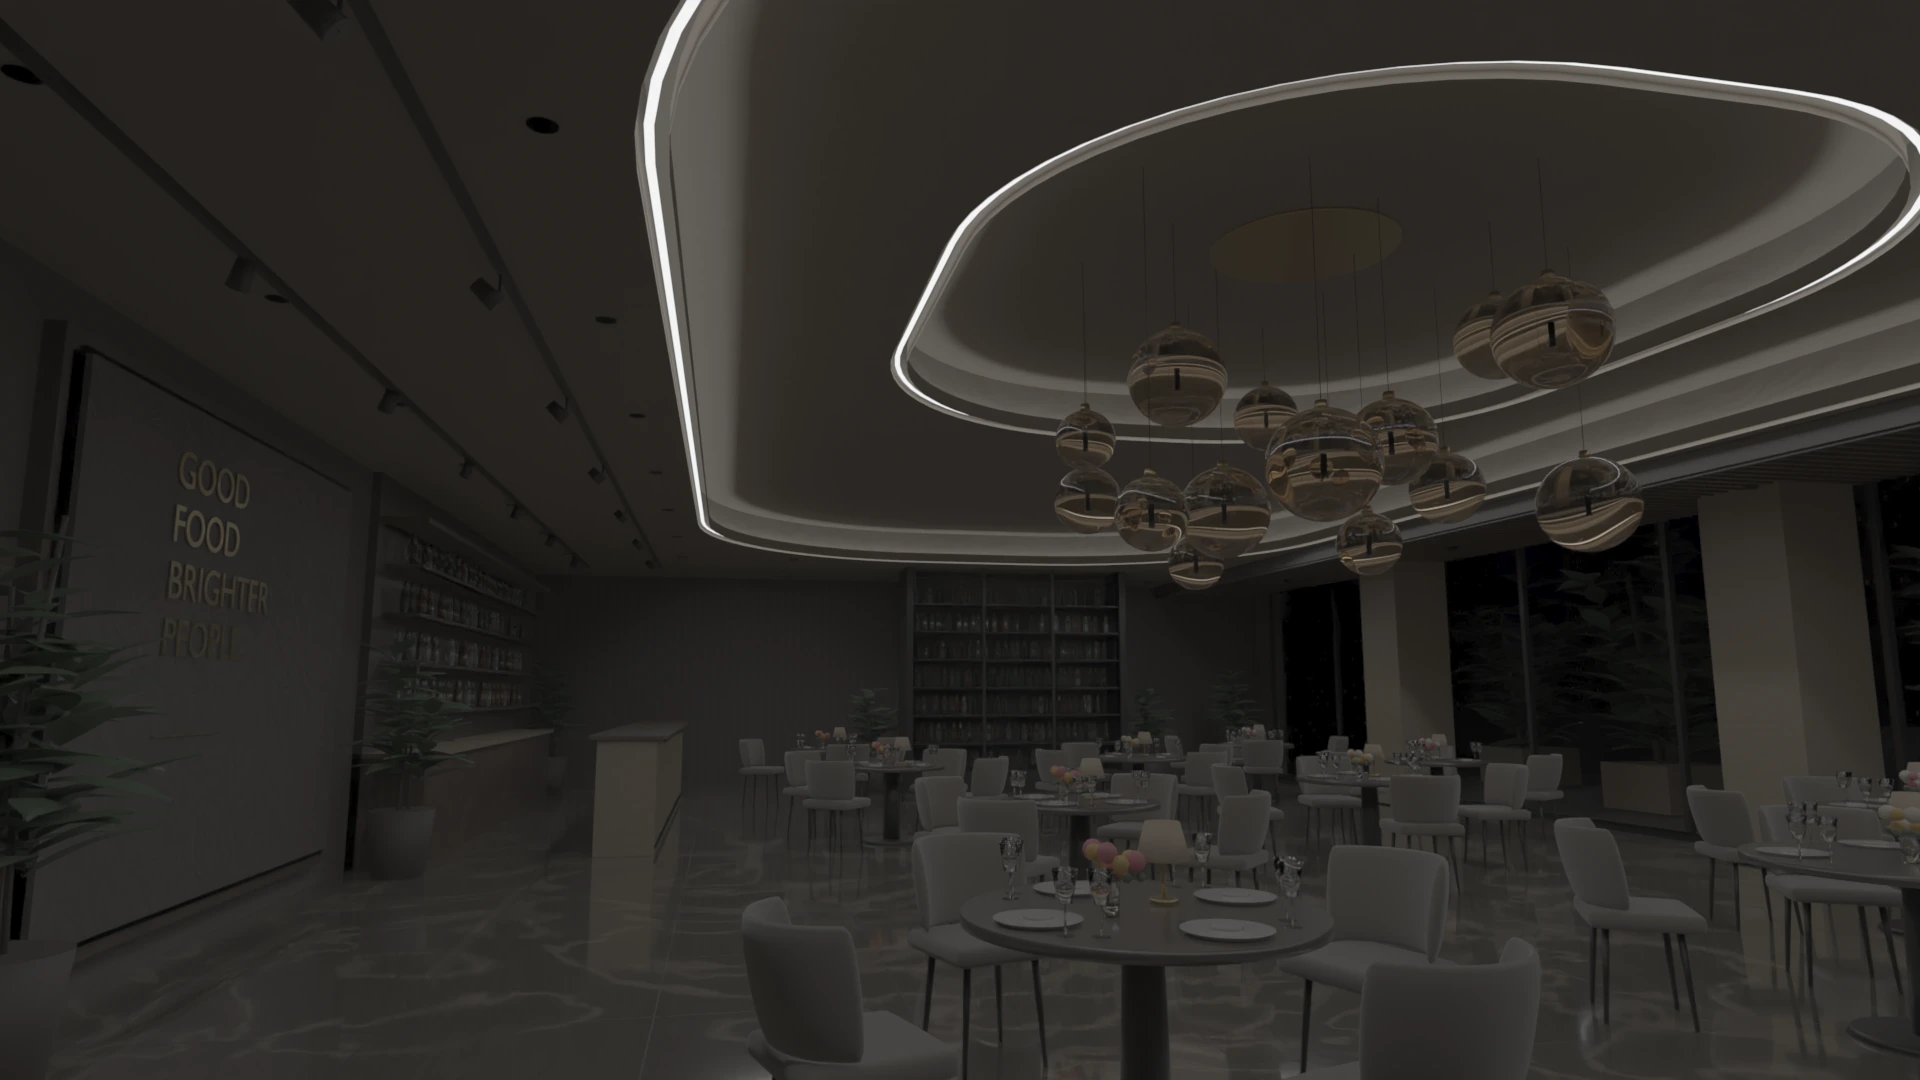
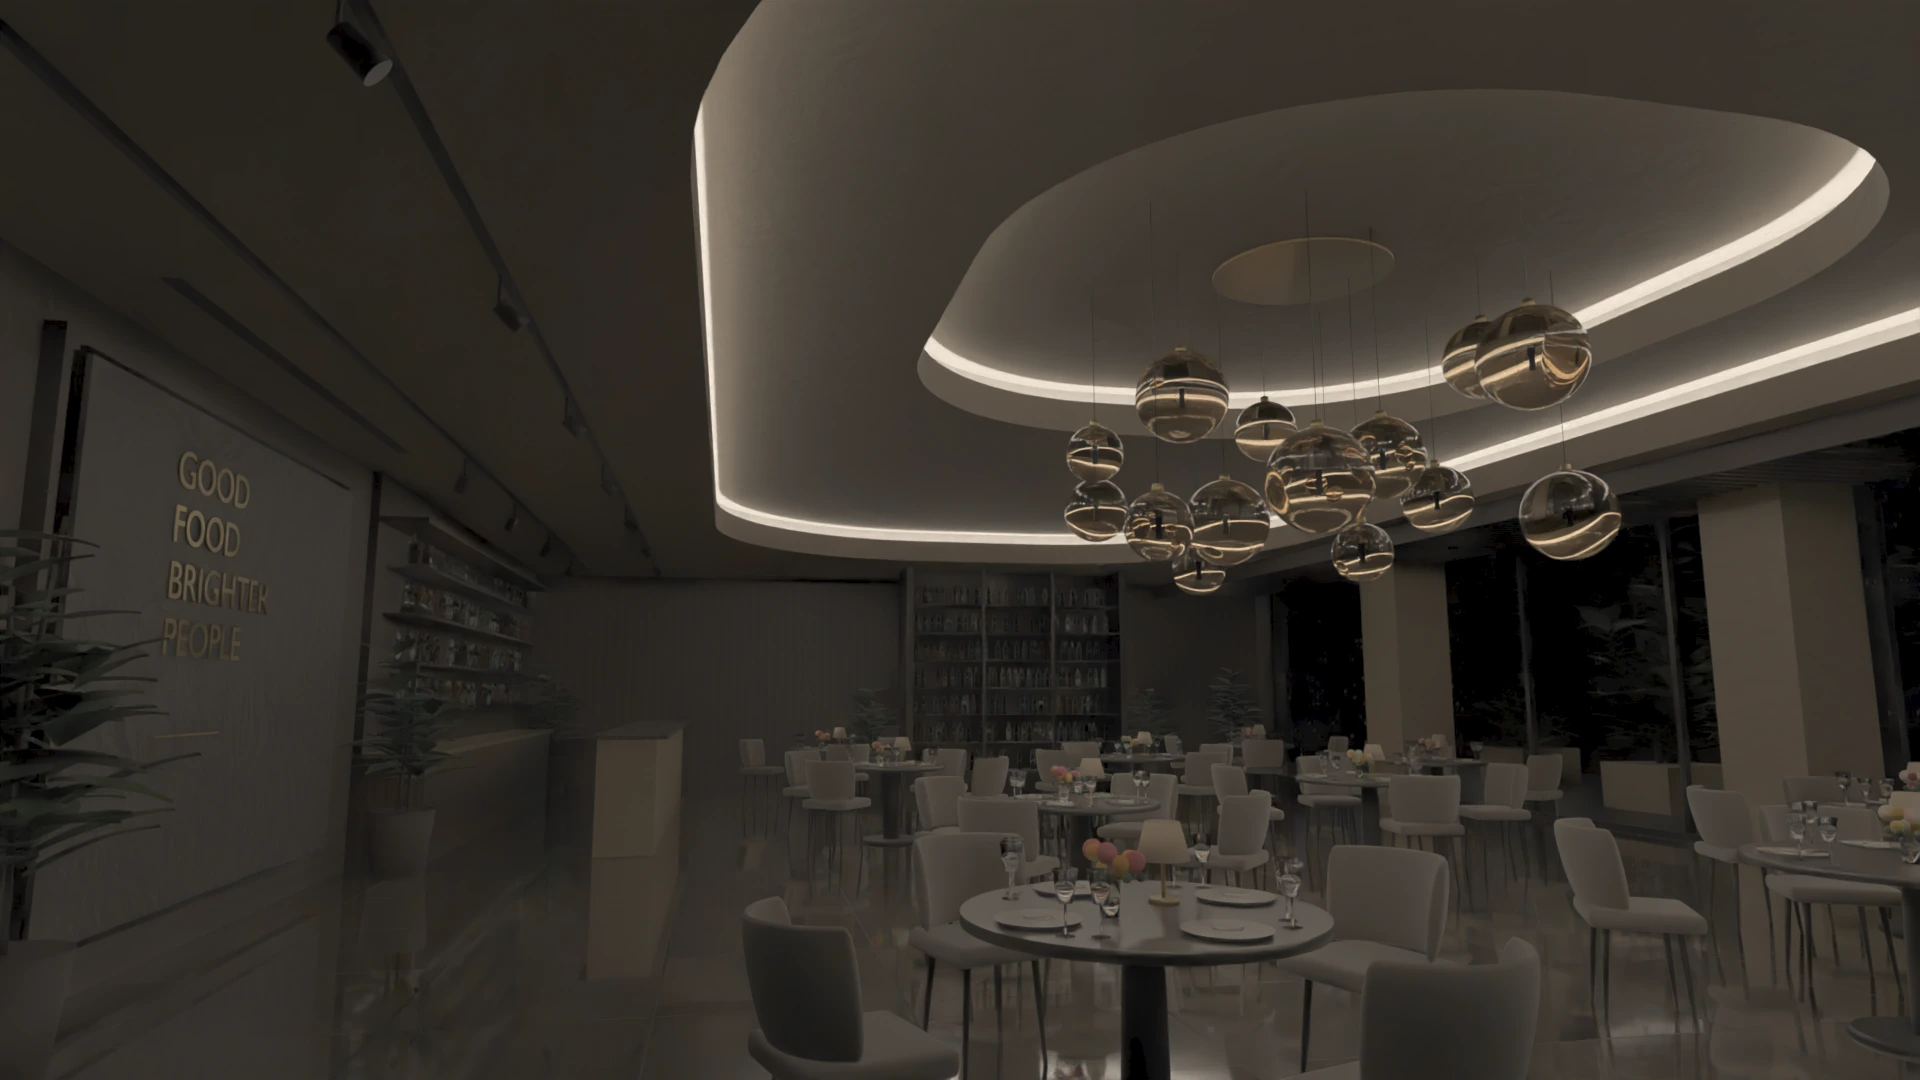
Restaurant v8: the shelf circuit, and Party in amber
The plate set was re-rendered. Nine circuits now instead of eight, and
every circuit carries its own fixtures — a lens, a strip, a globe glows
only inside its own layer, so a circuit at zero shows its fittings
unlit. There was no separate lens-glow overlay to remove; the plates
path never had one.

Gains re-derived against the new plates, anchored so `rs_general` alone
at full reads the brief's 0.25 — measured 0.253. Two layers are off the
lumen line and the profile says why: `rs_pendant`, whose globes fill the
frame, and `rs_arch`, which is discussed below.

Shelf lighting is a new circuit, split out of `rs_feature`. Thirty
strips at 3000 K, dim only, lit in all eight scenes — 50 through Day up
to 100 for Cleaning, as the sheet specifies. It reads at a p99 of 0.75
with half a per cent of pixels clipped: lit glass rather than glare.

Party is amber. The scene asked for `#FF8A1F` and got magenta, because
the scene also carried a hue drift from 320 to 275 that overwrote the
colour a frame after it was set. The drift is gone, and with the wash at
hue 30 the room is warm end to end with no pink, purple or blue — and
2.1% clipped, down from 4.3%. The brief's optional amber-to-gold pulse
is not implemented: those two colours are five degrees of hue apart and
differ mostly in brightness, and `SceneDrift` interpolates hue alone, so
it would animate nothing anybody could see.

Morning raises the downlights to 70 and the tracks to 60 at 4000 K, with
[…]

diff --git a/lib/spaces/commercial/restaurant.ts b/lib/spaces/commercial/restaurant.ts
@@ -182,6 +182,33 @@ export const restaurant: Space = {
       glow: [],
     },
     {
+      id: "rs-shelf",
+      kind: "light",
+      name: "Shelf Lighting",
+      zoneId: "rs-main",
+      productId: "connekt-profile",
+      subsystem: "lighting",
+      /**
+       * Split out of `rs-feature` in the v8 re-render.
+       *
+       * Both bottle displays, the back bar shelf and the full-height wine
+       * wall. It used to ride on the feature circuit, which meant the only
+       * way to light the wall graphic was to light four hundred bottles
+       * with it. They are different jobs on different hours — the wine
+       * wall is the thing a guest photographs, and it should still be lit
+       * when the room has gone down for dinner.
+       *
+       * Dim only, fixed 3000 K: a shelf strip behind glass is specified
+       * once and never tuned, and a bottle display that drifts warm looks
+       * like a fridge that has lost its light.
+       */
+      dimmable: true,
+      fixtures: 30,
+      wattsEach: 4,
+      lumensEach: 260,
+      glow: [],
+    },
+    {
       id: "rs-rgb",
       kind: "light",
       name: "RGB",
@@ -304,6 +331,15 @@ export const restaurant: Space = {
         "Breakfast and the room between services. Cool, bright and even, with the façade doing most of it — the decorative layers are off because a filament globe in daylight is a switched-on bulb and nothing more.",
       fadeMs: 2200,
       targets: {
+        "rs-general": { on: true, level: 70, cct: 4000, sat: 0 },
+        "rs-tunable": { on: true, level: 60, cct: 4000, sat: 0 },
+        "rs-cove": { on: false },
+        "rs-pendant": { on: false },
+        "rs-arch": { on: false },
+        "rs-feature": { on: false },
+        "rs-table": { on: false },
+        "rs-shelf": { on: true, level: 50 },
+        "rs-rgb": { on: false },
         /**
          * Carried by the track rather than the downlights, on purpose.
          *
@@ -316,14 +352,6 @@ export const restaurant: Space = {
          * actually lights breakfast, and the cove stays up because a 10%
          * cove is most of the difference between even and gloomy.
          */
-        "rs-general": { on: true, level: 60, cct: 4500, sat: 0 },
-        "rs-tunable": { on: true, level: 95, cct: 4500, sat: 0 },
-        "rs-cove": { on: true, level: 50, cct: 4000, sat: 0 },
-        "rs-pendant": { on: false },
-        "rs-arch": { on: true, level: 25, cct: 4000, sat: 0 },
-        "rs-feature": { on: true, level: 30, cct: 4000, sat: 0 },
-        "rs-table": { on: false },
-        "rs-rgb": { on: false },
         "rs-ac": { on: true, setpointC: 23, mode: "cool", fan: 2 },
         "rs-music": { on: true, source: "Brunch", volume: 22 },
       },
@@ -345,6 +373,7 @@ export const restaurant: Space = {
         "rs-arch": { on: true, level: 42, cct: 3400, sat: 0 },
         "rs-feature": { on: true, level: 62, cct: 3400, sat: 0 },
         "rs-table": { on: true, level: 35, cct: 2600, sat: 0 },
+        "rs-shelf": { on: true, level: 60 },
         "rs-rgb": { on: false },
         "rs-ac": { on: true, setpointC: 22, mode: "cool", fan: 3 },
         "rs-music": { on: true, source: "Bossa", volume: 28 },
@@ -367,6 +396,7 @@ export const restaurant: Space = {
         "rs-arch": { on: true, level: 66, cct: 2800, sat: 0 },
         "rs-feature": { on: true, level: 88, cct: 2900, sat: 0 },
         "rs-table": { on: true, level: 66, cct: 2200, sat: 0 },
+        "rs-shelf": { on: true, level: 80 },
         "rs-rgb": { on: false },
         "rs-ac": { on: true, setpointC: 22, mode: "cool", fan: 2 },
         "rs-music": { on: true, source: "Bossa", volume: 30 },
@@ -389,6 +419,7 @@ export const restaurant: Space = {
         "rs-arch": { on: true, level: 55, cct: 2900, sat: 0 },
         "rs-feature": { on: true, level: 70, cct: 3000, sat: 0 },
         "rs-table": { on: true, level: 45, cct: 2300, sat: 0 },
+        "rs-shelf": { on: true, level: 80 },
         "rs-rgb": { on: false },
         "rs-ac": { on: true, setpointC: 22, mode: "cool", fan: 2 },
       },
@@ -456,6 +487,15 @@ export const restaurant: Space = {
         "The darkest the room goes while still serving. Ambient almost out, everything carried by the table pools and the pendants — the contrast ratio is the point, and it is what separates a restaurant from a dining hall.",
       fadeMs: 2600,
       targets: {
+        "rs-general": { on: true, level: 10, cct: 2700, sat: 0 },
+        "rs-tunable": { on: true, level: 26, cct: 2200, sat: 0 },
+        "rs-cove": { on: true, level: 15, cct: 2200, sat: 0 },
+        "rs-pendant": { on: true, level: 95, cct: 2000, sat: 0 },
+        "rs-arch": { on: true, level: 50, cct: 2500, sat: 0 },
+        "rs-feature": { on: true, level: 64, cct: 2700, sat: 0 },
+        "rs-table": { on: true, level: 100, cct: 2000, sat: 0 },
+        "rs-shelf": { on: true, level: 70 },
+        "rs-rgb": { on: false },
         /**
          * Ten per cent, and it stays on.
          *
@@ -470,14 +510,6 @@ export const restaurant: Space = {
          * single thing most able to flatten it — the light has to come from
          * the tables and the pendants or the scene is just a dimmer Dinner.
          */
-        "rs-general": { on: true, level: 10, cct: 2700, sat: 0 },
-        "rs-tunable": { on: true, level: 26, cct: 2200, sat: 0 },
-        "rs-cove": { on: true, level: 15, cct: 2200, sat: 0 },
-        "rs-pendant": { on: true, level: 95, cct: 2000, sat: 0 },
-        "rs-arch": { on: true, level: 50, cct: 2500, sat: 0 },
-        "rs-feature": { on: true, level: 64, cct: 2700, sat: 0 },
-        "rs-table": { on: true, level: 100, cct: 1950, sat: 0 },
-        "rs-rgb": { on: false },
         "rs-ac": { on: true, setpointC: 22, mode: "cool", fan: 1 },
         "rs-music": { on: true, source: "Jazz Trio", volume: 26 },
       },
@@ -499,6 +531,8 @@ export const restaurant: Space = {
         "rs-arch": { on: true, level: 70, cct: 2900, sat: 0 },
         "rs-feature": { on: true, level: 88, cct: 3000, sat: 0 },
         "rs-table": { on: true, level: 70, cct: 2200, sat: 0 },
+        "rs-shelf": { on: true, level: 80 },
+        "rs-rgb": { on: false },
         /**
          * Off, where it used to carry a low amber wash.
          *
@@ -510,7 +544,6 @@ export const restaurant: Space = {
          * dinner. Party is now the only scene in the room with any colour in
          * it, and the dressing comes from the cove and the pendants instead.
          */
-        "rs-rgb": { on: false },
         "rs-ac": { on: true, setpointC: 21, mode: "cool", fan: 3 },
         "rs-music": { on: true, source: "Jazz Trio", volume: 38 },
       },
@@ -525,6 +558,15 @@ export const restaurant: Space = {
         "Colour takes the room. Ambient down to a floor-safety level, the white layers pulled back, and the RGB runs at full saturation — the one scene where the architecture stops being the subject.",
       fadeMs: 1200,
       targets: {
+        "rs-general": { on: true, level: 20, cct: 2700, sat: 0 },
+        "rs-tunable": { on: false },
+        "rs-cove": { on: true, level: 80, cct: 2200, sat: 0 },
+        "rs-pendant": { on: true, level: 25, cct: 2200, sat: 0 },
+        "rs-arch": { on: true, level: 60, cct: 2400, sat: 0 },
+        "rs-feature": { on: true, level: 30, cct: 2700, sat: 0 },
+        "rs-table": { on: true, level: 35, cct: 2200, sat: 0 },
+        "rs-shelf": { on: true, level: 90 },
+        "rs-rgb": { on: true, level: 80, hue: 30, sat: 88 },
         /**
          * The colour is carried by the architecture, not by a strip of tape.
          *
@@ -542,33 +584,25 @@ export const restaurant: Space = {
          * third so every cover still has its own pool, and enough pendant to
          * keep the cluster readable as glass rather than as silhouette.
          */
-        "rs-general": { on: true, level: 5, cct: 2700, sat: 0 },
-        "rs-tunable": { on: false },
-        "rs-cove": { on: true, level: 80, cct: 2200, sat: 0 },
-        "rs-pendant": { on: true, level: 25, cct: 2000, sat: 0 },
-        "rs-arch": { on: true, level: 60, cct: 2500, sat: 0 },
-        "rs-feature": { on: true, level: 30, cct: 2700, sat: 0 },
-        "rs-table": { on: true, level: 35, cct: 2000, sat: 0 },
-        "rs-rgb": { on: true, level: 100, cct: 4000, hue: 320, sat: 100 },
         "rs-ac": { on: true, setpointC: 20, mode: "cool", fan: 4 },
         "rs-music": { on: true, source: "Club Set", volume: 56 },
       },
       /**
-       * Magenta to violet and back, twice a minute.
+       * No drift. Party is a fixed amber now.
        *
-       * Slow enough that nobody watches it happen and fast enough that the
-       * room is never the same colour twice in a sitting, which is the
-       * difference between a party and a photograph of one. Forty-five
-       * degrees is a deliberately short arc: a full hue rotation sweeps
-       * through green on its way round and a dining room lit green is a
-       * fault report, not a scene.
+       * This scene used to cycle the wash from magenta round to violet,
+       * which is what the v8 feedback asked us to take out: amber only,
+       * no pink, purple or blue. The drift had to go with the hue — it
+       * overrides whatever colour the scene sets, so leaving it in simply
+       * reinstated the magenta a frame later.
+       *
+       * The brief offers an optional #FF8A1F to #FFB347 pulse in its
+       * place. Those two are five degrees of hue apart and differ mostly
+       * in brightness, and `SceneDrift` interpolates hue alone — it would
+       * animate nothing a client could see. A brightness pulse is a new
+       * mechanism rather than a parameter, so this stays static until
+       * somebody asks for one.
        */
-      drift: {
-        deviceId: "rs-rgb",
-        fromHue: 320,
-        toHue: 275,
-        periodMs: 20000,
-      },
       highlight: ["flexi-delta-rgb", "smartspaces-audio"],
     },
     {
@@ -580,13 +614,14 @@ export const restaurant: Space = {
         "Everything decorative off, full cool white on the floor. Nobody is being sold anything at one in the morning, and the staff turning the room around need to see what they are doing.",
       fadeMs: 900,
       targets: {
-        "rs-general": { on: true, level: 100, cct: 5000, sat: 0 },
-        "rs-tunable": { on: true, level: 100, cct: 5000, sat: 0 },
-        "rs-cove": { on: false },
-        "rs-pendant": { on: false },
-        "rs-arch": { on: false },
-        "rs-feature": { on: false },
-        "rs-table": { on: false },
+        "rs-general": { on: true, level: 100, cct: 4000, sat: 0 },
+        "rs-tunable": { on: true, level: 100, cct: 4000, sat: 0 },
+        "rs-cove": { on: true, level: 100, cct: 4000, sat: 0 },
+        "rs-pendant": { on: true, level: 100, cct: 2900, sat: 0 },
+        "rs-arch": { on: true, level: 100, cct: 4000, sat: 0 },
+        "rs-feature": { on: true, level: 100, cct: 4000, sat: 0 },
+        "rs-table": { on: true, level: 100, cct: 2700, sat: 0 },
+        "rs-shelf": { on: true, level: 100 },
         "rs-rgb": { on: false },
         "rs-ac": { on: true, setpointC: 25, mode: "cool", fan: 1 },
         "rs-music": { on: false },

diff --git a/components/stage/plates/profiles/restaurant.ts b/components/stage/plates/profiles/restaurant.ts
@@ -1,24 +1,32 @@
 import type { PlateProfile } from "../profile";
 
 /**
- * The hotel restaurant's calibration.
+ * The hotel restaurant's calibration, for the v8 re-render.
  *
- * The gains put the circuits back into proportion, because the plate set is
- * not internally consistent: measured mean frame luminance at full output
- * ran from 0.33 for the pendants to 0.0005 for the track, a factor of six
- * hundred between eighteen 280-lumen globes and thirty-four 900-lumen heads,
- * which is backwards. They are derived rather than dialled —
+ * Derived by `scripts/measure-plates.py --gains` against `fixtures x
+ * lumensEach` from the space file, anchored so `rs_general` alone at full
+ * reads a frame mean of 0.25 — measured at 0.253, with 2.6% of pixels
+ * clipped.
  *
- *     gain ~ (lumens / general's lumens) / (what the plate actually puts out)
+ * v8 changed what a layer *is*, which is why these numbers moved so far.
+ * Every circuit now carries its own fixtures: a downlight lens, a strip, a
+ * pendant globe glows only inside its own layer, and a circuit at zero
+ * shows its fixtures unlit. That makes a plate's mean a worse proxy for
+ * the light a circuit casts than it already was, because the few hundred
+ * pixels of a bright lens can outweigh the wash it throws. Two layers are
+ * off the lumen line for exactly that reason:
  *
- * — using `fixtures x lumensEach` from the space file. The second term is
- * the awkward one: a plate's mean conflates the light a circuit *casts* with
- * the brightness of its own fixtures where they are in shot, a ratio running
- * from 0.45 for the track, which appears nowhere, to 43 for the pendants,
- * which are the largest object in frame. So lumens set the shape and the
- * scenes settled the rest, against the brief's test — Cleaning brightest and
- * most even, Fine Dining clearly the darkest service scene, Private Event
- * above Dinner and Evening, only Party carrying colour.
+ * `rs_pendant` at 0.51. Eighteen 280-lumen globes are the smallest circuit
+ * in the room and the largest object in frame; its plate decodes to a mean
+ * of 0.292, a hundred times `rs_general`.
+ *
+ * `rs_arch` at 600 against a lumen-derived 5841. Its plate is nearly empty
+ * — a mean of 0.00007 — and the derivation divides by that. See the note
+ * on the space file's `rs-arch`: in v8 this layer holds one lit object on
+ * the right of frame and no architectural wash at all, where v7 held 256
+ * times the linear energy. 600 lets that object read without flaring; the
+ * lumen figure would blow its brightest 256 pixels to white and still
+ * light nothing else. This wants a re-render rather than a gain.
  *
  * The two exterior layers are measured inside a mask of the glazing rather
  * than a box over the right of frame, and the night figure is a median
@@ -30,21 +38,21 @@ import type { PlateProfile } from "../profile";
  */
 export const RESTAURANT_PROFILE: PlateProfile = {
   gain: {
-    rs_general: 90,
-    rs_tunable: 260,
-    rs_cove: 7,
-    rs_pendant: 1.2,
-    rs_arch: 5,
-    rs_feature: 0.1,
-    rs_table: 5,
+    rs_general: 686,
+    rs_tunable: 976,
+    rs_cove: 851,
+    rs_pendant: 0.51,
+    rs_arch: 600,
+    rs_feature: 9.2,
+    rs_table: 83,
     /**
-     * 2.5x what lumen share alone would give it.
-     *
-     * Mounted low, behind the planters and up the window piers, so at its
-     * fair share it washed a thin bright line along the sill and nothing
-     * else — a strip of tape rather than a room with colour in it.
+     * The bottle displays, the back bar and the wine wall, split out of
+     * `rs_feature` in v8. 4.9 is its lumen share and it happens to land
+     * where the brief asks — the shelves read at a p99 of 0.75 with half
+     * a per cent of pixels clipped, which is lit glass rather than glare.
      */
-    rs_rgb: 1.5,
+    rs_shelf: 4.9,
+    rs_rgb: 73,
     /**
      * `sky_day` carries the daytime view and the light coming in with it, so
      * it is the one that has to make the room read as naturally lit. `sky`
@@ -68,6 +76,7 @@ export const RESTAURANT_PROFILE: PlateProfile = {
    * warmth is a property of the object rather than of the beam; tinting it
    * again by a 2000 K circuit colour applies it twice.
    */
+  fixedTint: { rs_shelf: 3000 },
   neutralLayers: ["rs_pendant"],
   /**
    * A cove run and a linear architectural profile are almost always RGBW in
